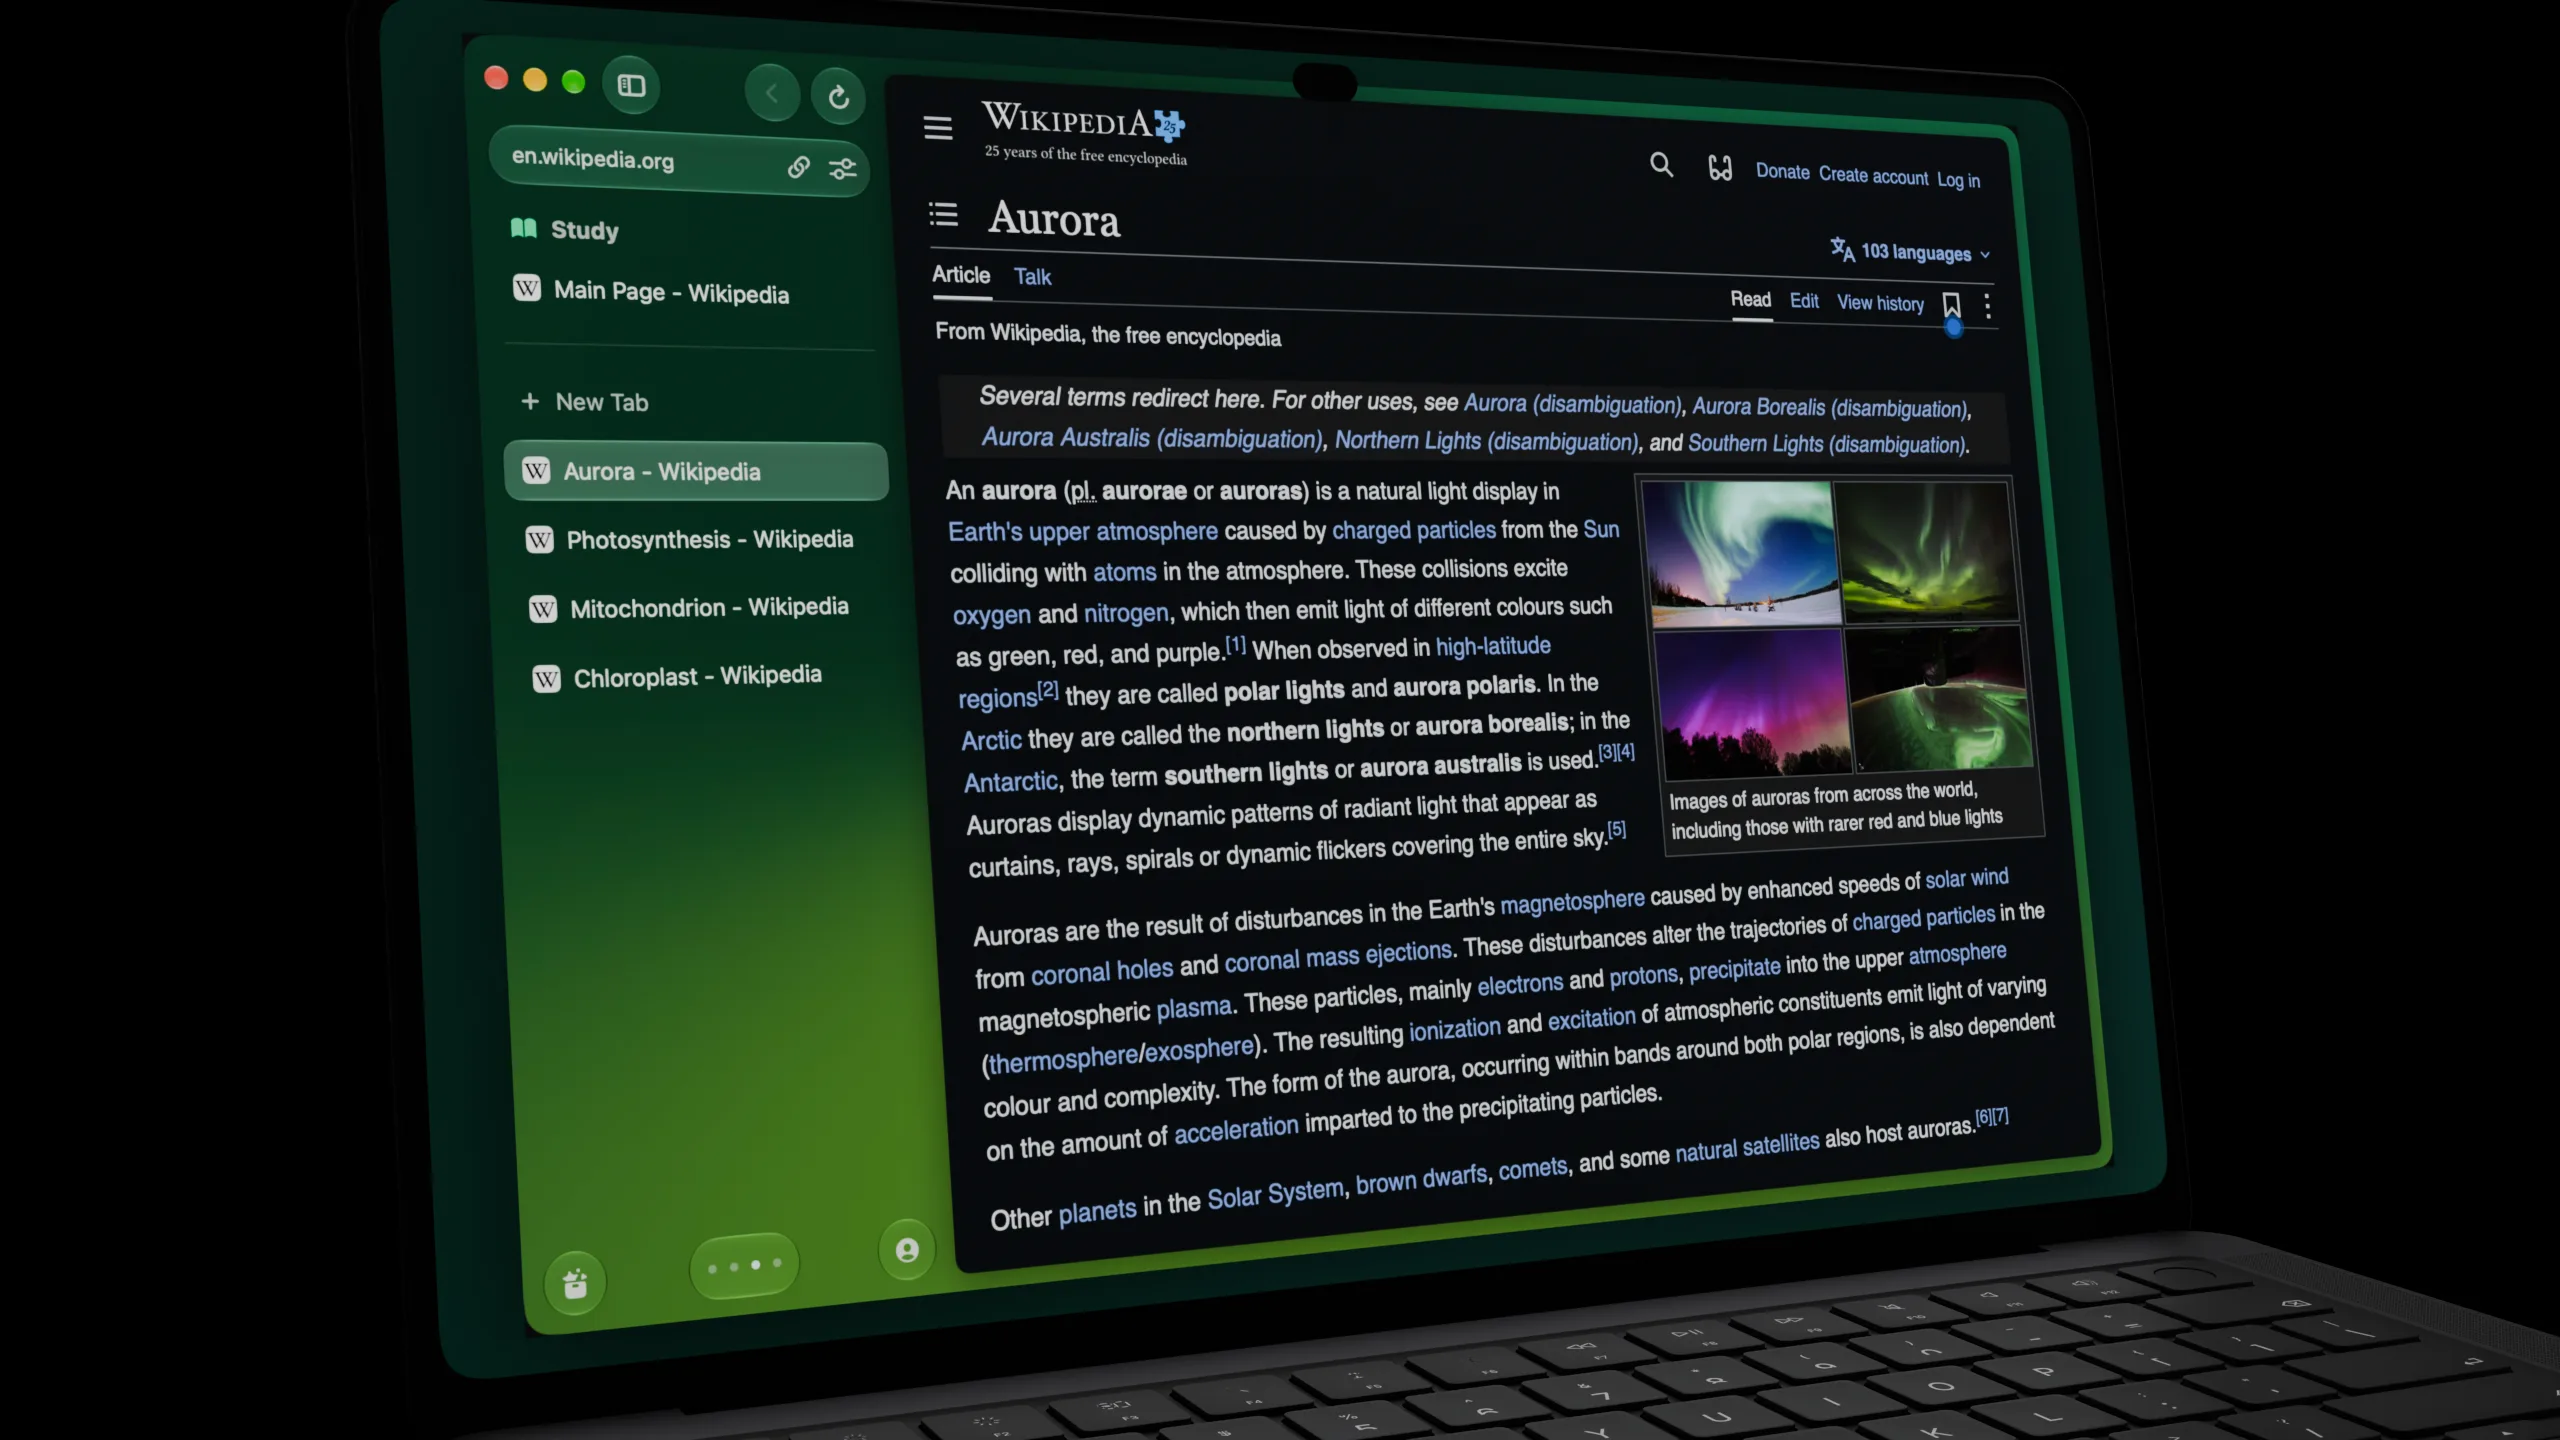
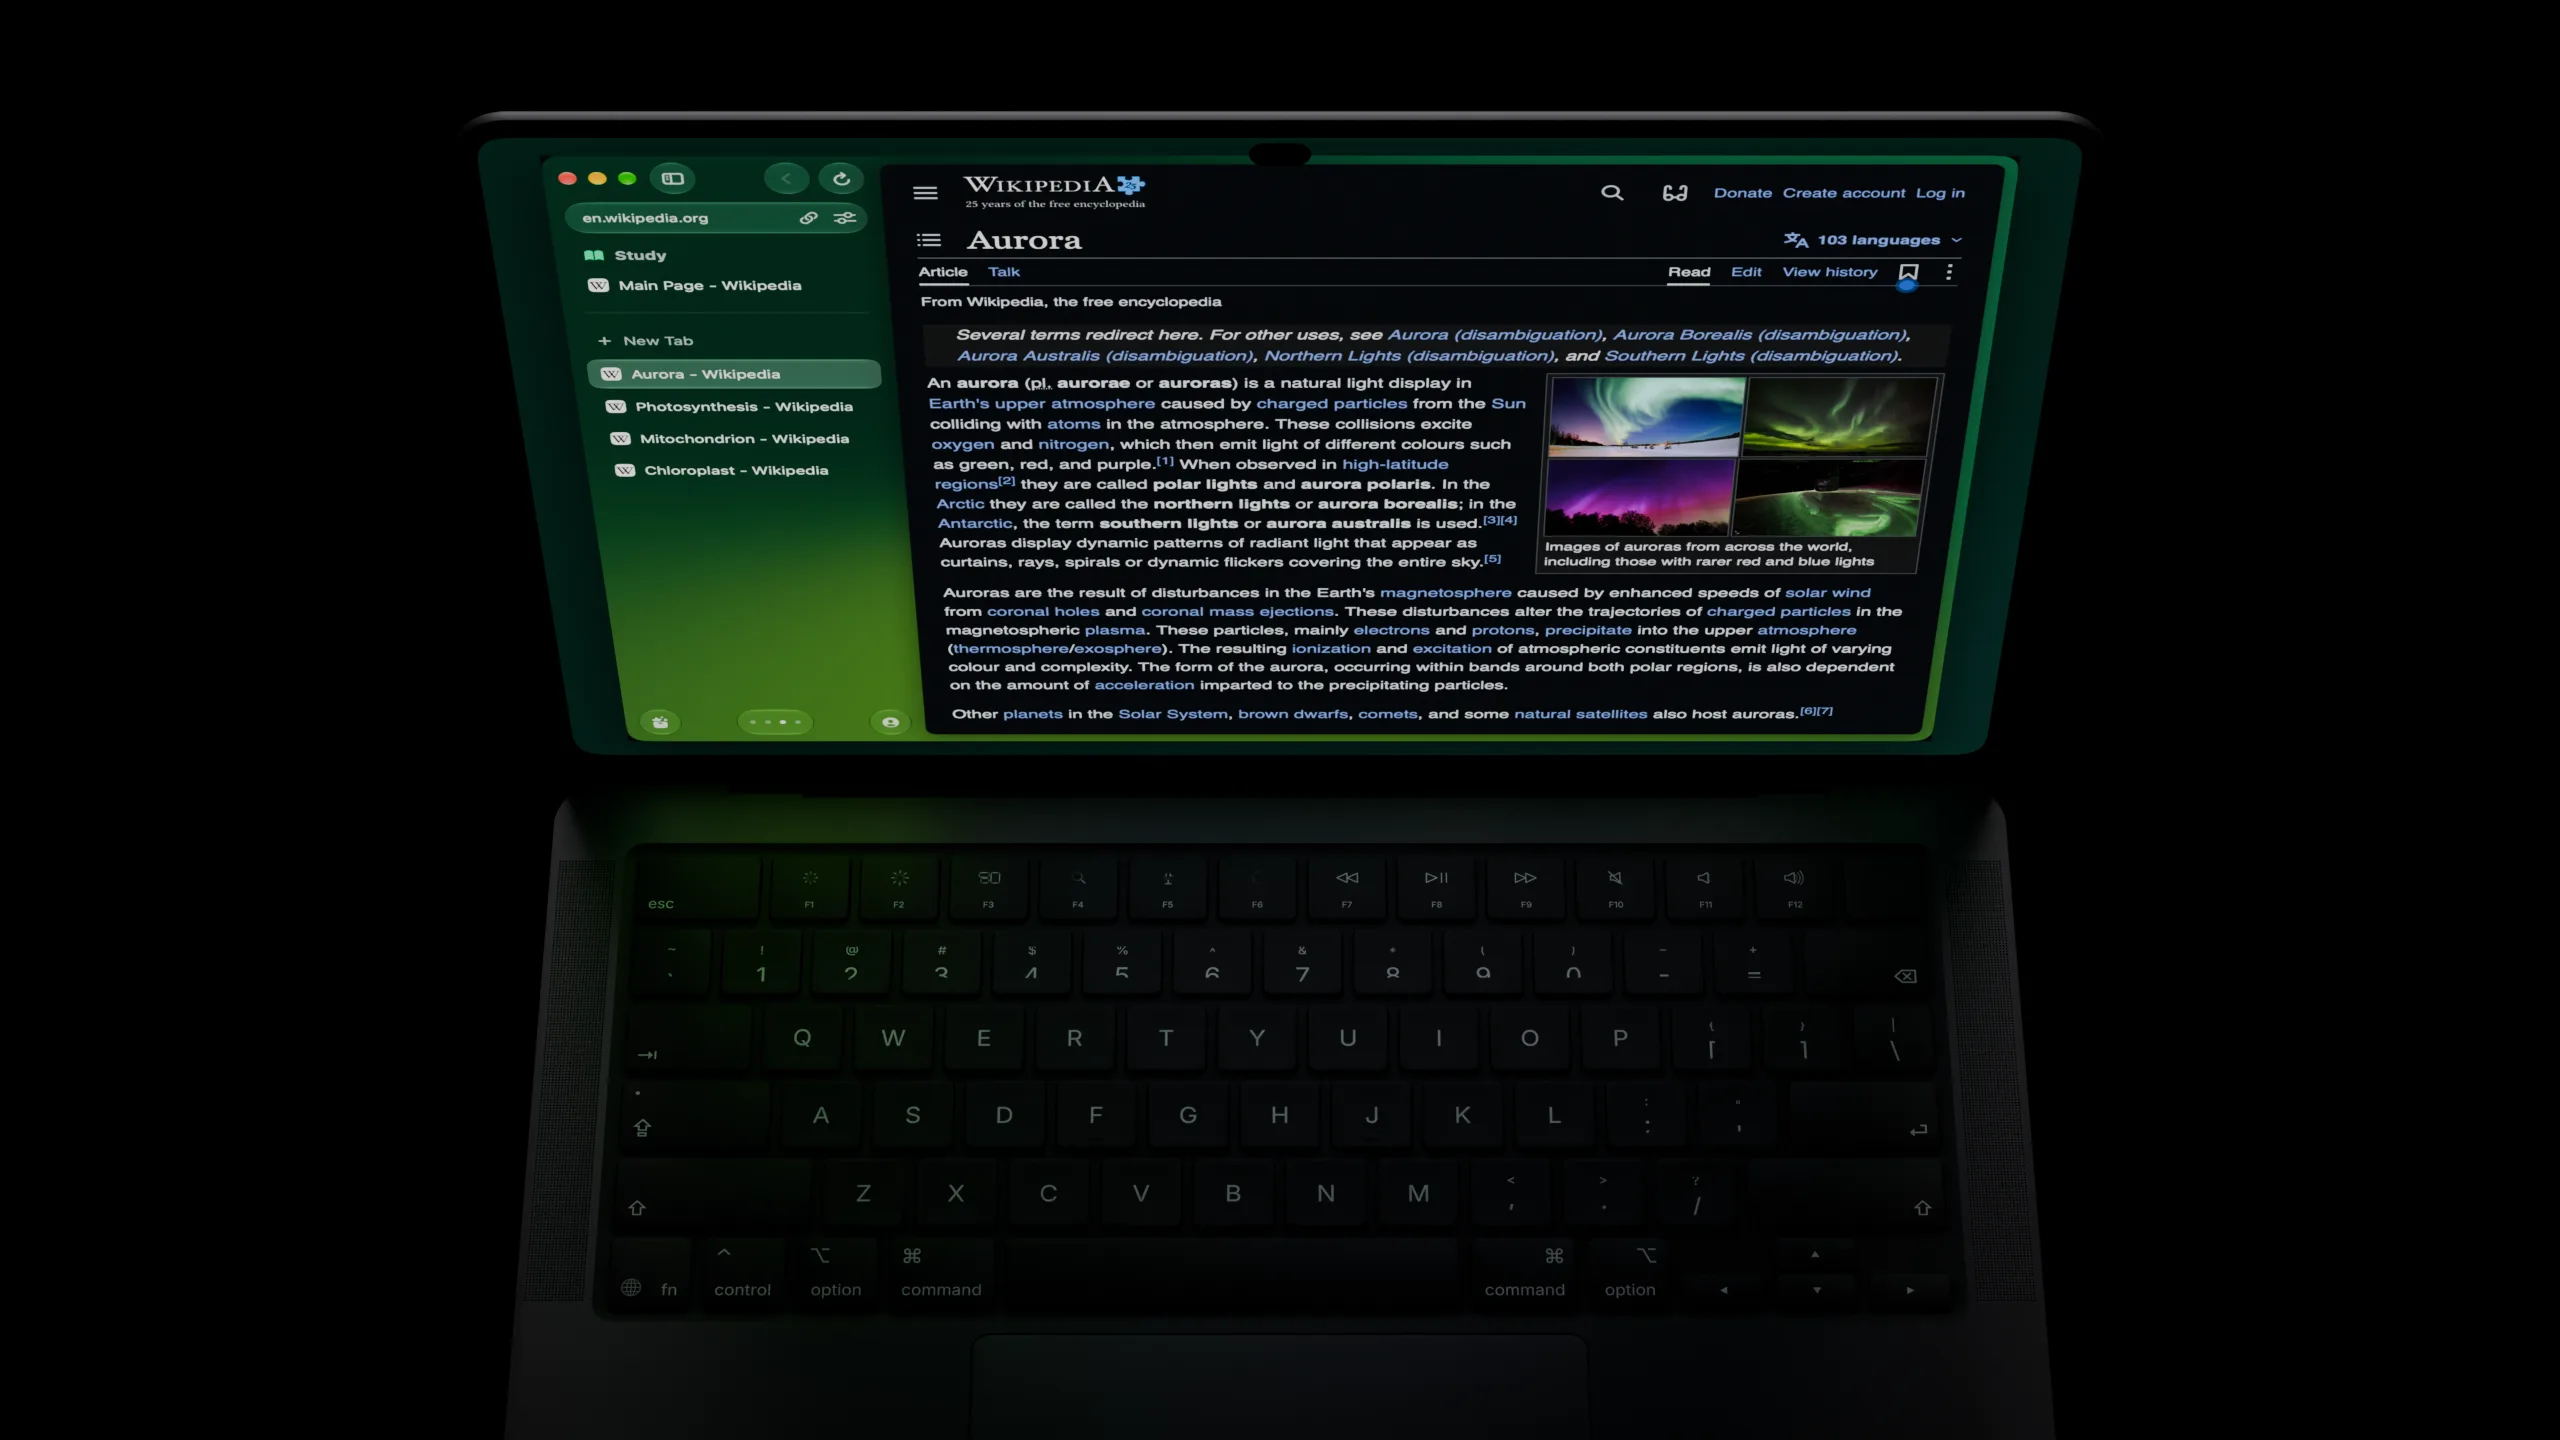
feat(website): hero laptop seen straight on from above, keys fading under the download
The picture is a new render shot: lid at 92 degrees from a camera 56
degrees up, in a near-black room where the screen's own colours light
the deck and one strip catches the lid's top edge. The lid sits under
the headline and the deck runs out behind the docked download.

Replaces the three-quarter close-up shot, which is removed.

diff --git a/website/src/css/sections/01-hero.css b/website/src/css/sections/01-hero.css
@@ -4,14 +4,14 @@
 .hero {
   padding-bottom: var(--section-pad);
 }
-/* one screen: the headline, the picture in the height left over, the download docked at its foot */
+/* one screen: the headline, the lid under it, the keys running out under the docked download */
 .hero-stage {
   position: relative;
   display: grid;
   grid-template-rows: auto minmax(0, 1fr);
   height: max(640px, 100svh - var(--nav-h));
   margin-bottom: 64px;
-  padding-top: clamp(40px, min(5.6vw, 9svh), 80px);
+  padding-top: clamp(40px, min(4vw, 6svh), 56px);
 }
 .hero-head {
   display: flex;
@@ -34,13 +34,13 @@
   color: var(--ink-2);
   text-wrap: balance;
 }
-/* the picture fits the height on its black stage; a box narrower than 5:4 would crop the screen */
 .hero-film {
   position: relative;
+  container-type: size;
   align-self: center;
   width: min(1260px, 100vw - 2 * var(--gutter));
   height: calc(100% - 12px);
-  max-height: min(709px, (100vw - 2 * var(--gutter)) * 0.8);
+  max-height: min(709px, (100vw - 2 * var(--gutter)) * 0.534);
   margin: 0 auto;
   overflow: hidden;
   border-radius: 28px;
@@ -50,9 +50,18 @@
   position: absolute;
   top: 0;
   left: 50%;
-  width: auto;
-  height: 100%;
-  translate: -50% 0;
+  /* the lid spans 64% of the picture, 8% to 52% down it: 300cqh keeps the first key row in a short box */
+  width: min(118cqw, 300cqh);
+  height: auto;
+  translate: -50% -5.4%;
+  mask-image: linear-gradient(#000 63%, #0000 80%);
+}
+.hero-film::after {
+  content: "";
+  position: absolute;
+  inset: auto 0 0;
+  height: 80px;
+  background: linear-gradient(#0000, #000);
 }
 @media (prefers-reduced-motion: no-preference) {
   .hero-film img {
@@ -163,11 +172,10 @@
     height: auto;
     margin-bottom: 48px;
   }
-  /* 5:4 crops the picture's empty sides */
   .hero-film {
     height: auto;
     max-height: none;
-    aspect-ratio: 5 / 4;
+    aspect-ratio: 15 / 8;
   }
   .hero-get {
     position: static;

diff --git a/website/tools/3d/render.py b/website/tools/3d/render.py
@@ -9,7 +9,7 @@
 # materials are given roles by name (printed; --map {"regex": "role"|"keep"} overrides). Objects matching
 # --lid swing about --hinge, else a hinge found at their lowest back edge; --rest-angle is the lid's angle in the file.
 # Cycles studio for the laptop: black sweep, softbox strips, the CC0 studio HDRI, a screen whose spill is neutral.
-# Units are cm (1 BU = 1 cm); poses use mock/laptop.js's orbit (az, el, dist, y, z, fov) in its Y-up space, slid sideways by x.
+# Units are cm (1 BU = 1 cm); poses use mock/laptop.js's orbit (az, el, dist, y, z, fov) in its Y-up space.
 import argparse, json, math, os, re, sys
 import bpy, bmesh
 import numpy as np
@@ -49,7 +49,7 @@ SHOTS = {
     "ports": ("black", 2, dict(lid=0, glow=0, az=-1.36, el=0.02, dist=92, y=0.75, z=-7.6, fov=2.2)),
     "deck": ("black", 2, dict(lid=110, glow=0.5, az=-0.3, el=0.75, dist=95, y=1.2, z=-1, fov=11)),
     "front": ("black", 2000 / 1208, dict(lid=92, glow=0.5, az=0, el=0.03, dist=124, y=10.4, z=-9, fov=12)),
-    "close": ("black", 16 / 9, dict(lid=100, glow=0.8, az=-0.42, el=0.07, dist=49, x=-2, y=10.8, z=-12, fov=26)),
+    "above": ("black", 16 / 9, dict(lid=92, glow=6, az=0, el=0.98, dist=125, y=5, z=-10, fov=13.8, dark=True)),
 }
 
 lerp = lambda a, b, t: a + (b - a) * t
@@ -164,6 +164,9 @@ if args.backdrop == "none":
     sweep.hide_render = True
 
 
+LAMPS = {}
+
+
 def panel(name, size, at, aim, radiance, fade=0.0, soft=0.0):
     """a one-sided softbox of size (w, h) cm at `at` facing `aim`, unseen by the camera; fade darkens it towards its bottom
     edge, soft ramps its outer `soft` fraction to black on every side"""
@@ -217,12 +220,15 @@ def panel(name, size, at, aim, radiance, fade=0.0, soft=0.0):
     o.visible_camera = False
     o.parent = rig
     scene.collection.objects.link(o)
+    LAMPS[name] = o
 
 
 panel("top", (70, 30), (0, 10, 75), (0, 0, 0), 1.2)
 panel("back", (100, 40), (0, 70, 40), (0, 0, 2), 1.5, fade=1.0)
 panel("key", (14, 70), (-70, -45, 35), (0, 0, 0), 1.0, soft=0.3)
 panel("rim", (14, 70), (75, 30, 30), (0, 0, 0), 0.8, soft=0.3)
+# mirrors into the `above` camera off the lid's top edge
+panel("edge", (60, 14), (0, 45, 40), (0, 11, 22), 6)
 if args.backdrop != "white":  # on white it would shade the floor, which lights the laptop's front itself
     panel("front", (44, 16), (0, -20, 0.3), (0, -20, 10), 0.5, soft=0.15)
 
@@ -394,20 +400,27 @@ cam.data.sensor_fit = "VERTICAL"
 cam.data.clip_start, cam.data.clip_end = 1, 3000
 
 
-def pose(finish, lid, glow, az, el, dist, y, z, fov, x=0):
+def pose(finish, lid, glow, az, el, dist, y, z, fov, dark=False):
     color, rough, light = FINISHES[args.finish or finish]
     for b, k, r in ((alloy_b, 1, rough), (seam_b, 1, rough + 0.088), (pad_b, 0.896, rough)):
         b.inputs["Base Color"].default_value = (*(c * k for c in color), 1)
         ROUGH.get(b, b.inputs["Roughness"]).default_value = r
-    bg.inputs["Strength"].default_value = light
+    # dark: a near-black room where the screen's own colours are the spill
+    bg.inputs["Strength"].default_value = 0.03 if dark else light
+    for name, o in LAMPS.items():
+        o.hide_render = name not in ("back", "edge") if dark else name == "edge"
+    for link in smix.inputs["A"].links:
+        st.links.remove(link)
+    if dark:
+        st.links.new(stex.outputs["Color"], smix.inputs["A"])
     hinge.rotation_euler = (math.radians(args.rest_angle - lid), 0, 0)
     strength.inputs[1].default_value = 1 - glow  # camera rays see 1, spill rays see glow
     strength.inputs[2].default_value = glow
     # mock/laptop.js orbit in Y-up (x, y, z) -> Blender (x, -z, y)
     p = (dist * math.cos(el) * math.sin(az), y + dist * math.sin(el), z + dist * math.cos(el) * math.cos(az))
     rig.rotation_euler = (0, 0, az)
-    cam.location = (p[0] + x, -p[2], p[1])
-    cam.rotation_euler = (Vector((x, -z, y)) - cam.location).to_track_quat("-Z", "Y").to_euler()
+    cam.location = (p[0], -p[2], p[1])
+    cam.rotation_euler = (Vector((0, -z, y)) - cam.location).to_track_quat("-Z", "Y").to_euler()
     cam.data.angle = math.radians(fov)
 
 
